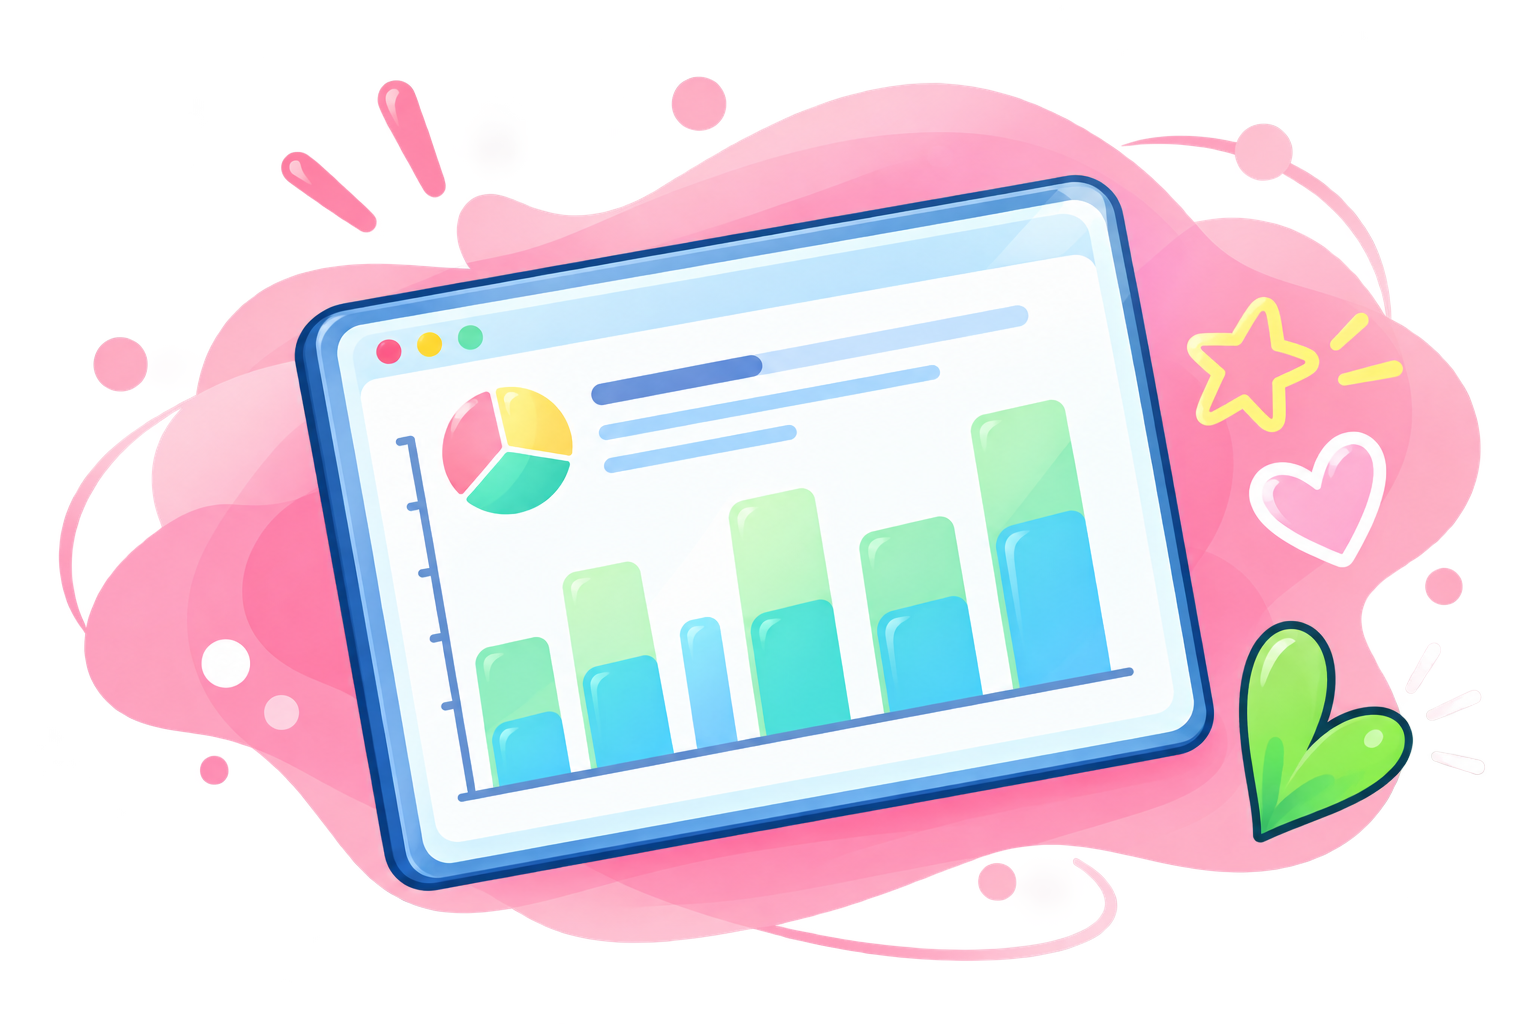
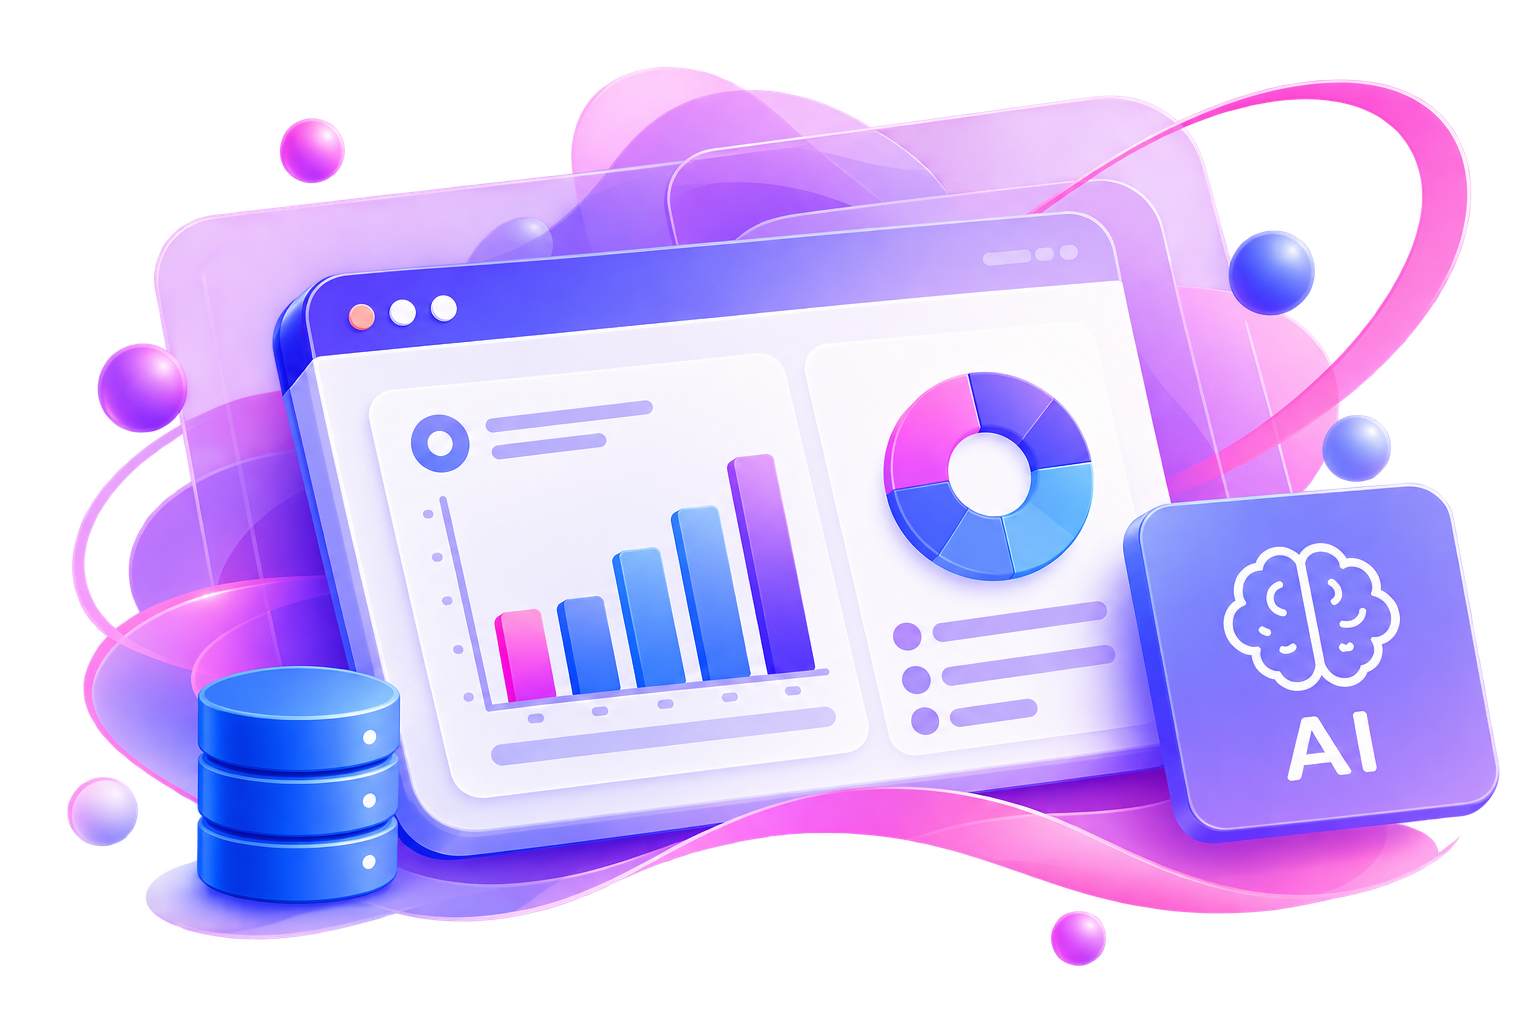
Update LP Design

diff --git a/frontend/src/components/lp/JobCard.vue b/frontend/src/components/lp/JobCard.vue
@@ -33,6 +33,9 @@ defineProps({
         <span class="our-work-card__curve"></span>
         <span class="our-work-card__dots"></span>
         <span class="our-work-card__dots our-work-card__dots--bottom"></span>
+        <span class="our-work-card__wave"></span>
+        <!-- 画像まわりの淡い光：左下 → 右上へごくゆっくり移動 -->
+        <span class="our-work-card__glow"></span>
       </span>
 
       <div class="our-work-card__image">
@@ -44,8 +47,11 @@ defineProps({
       </div>
 
       <div class="our-work-card__content">
+        <!-- タイトル上の短いライン（中を淡い光が左 → 右へ流れる） -->
+        <span class="our-work-card__accent" aria-hidden="true"></span>
         <h3 class="our-work-card__title">{{ job.title }}</h3>
-        <p class="our-work-card__description">{{ job.description }}</p>
+        <!-- 説明文の \n は「幅が足りないときだけ改行する位置」 -->
+        <p class="our-work-card__description"><template v-for="(part, i) in job.description.split('\n')" :key="i"><wbr v-if="i > 0" />{{ part }}</template></p>
         <ul class="our-work-card__tags" aria-label="使用するスキル">
           <li v-for="tag in job.tags" :key="tag" class="our-work-card__tag">{{ tag }}</li>
         </ul>
@@ -55,40 +61,47 @@ defineProps({
 </template>
 
 <style scoped>
-/* ================= テーマカラー（Yellow / Mint / Pink） ================= */
+/* ================= テーマカラー（Web：イエロー/オレンジ / モバイル：ブルー/シアン/ミント / データ・AI：ピンク/ラベンダー） ================= */
+/* 色の指定は lpContent.js の accent（yellow / green / pink）のまま */
 .our-work-card--yellow {
   --ow-bg:
-    radial-gradient(circle at 20% 15%, rgba(255, 218, 95, 0.18), transparent 35%),
-    linear-gradient(145deg, rgba(255, 255, 255, 0.98), rgba(255, 248, 220, 0.88));
-  --ow-deco: #ffc94d;     /* 装飾の色 */
-  --ow-tag-bg: #ffedb8;   /* タグの背景 */
-  --ow-border: rgba(255, 214, 120, 0.3);
+    radial-gradient(circle at 18% 12%, rgba(255, 210, 120, 0.22), transparent 40%),
+    linear-gradient(160deg, rgba(255, 249, 232, 0.98), rgba(255, 253, 248, 0.96) 55%, rgba(255, 240, 214, 0.9));
+  --ow-deco: #ffc56b;     /* 装飾の色 */
+  --ow-accent: #ff9a4d;   /* タイトル上のライン */
+  --ow-tag-bg: #ffe9c7;   /* タグの背景 */
+  --ow-border: rgba(255, 190, 120, 0.4);
+  --ow-glow: rgba(255, 190, 110, 0.32);
 }
 .our-work-card--green {
   --ow-bg:
-    radial-gradient(circle at 80% 15%, rgba(100, 230, 190, 0.16), transparent 35%),
-    linear-gradient(145deg, rgba(255, 255, 255, 0.98), rgba(226, 250, 240, 0.9));
-  --ow-deco: #5fd6a6;
-  --ow-tag-bg: #d2f3e2;
-  --ow-border: rgba(110, 220, 175, 0.3);
+    radial-gradient(circle at 82% 12%, rgba(120, 210, 245, 0.2), transparent 40%),
+    linear-gradient(160deg, rgba(234, 247, 255, 0.98), rgba(250, 253, 255, 0.96) 55%, rgba(222, 246, 240, 0.9));
+  --ow-deco: #6cc7ec;
+  --ow-accent: #3f9bf0;
+  --ow-tag-bg: #d8efff;
+  --ow-border: rgba(120, 190, 240, 0.42);
+  --ow-glow: rgba(110, 200, 240, 0.3);
 }
 .our-work-card--pink {
   --ow-bg:
-    radial-gradient(circle at 80% 15%, rgba(255, 160, 190, 0.17), transparent 35%),
-    linear-gradient(145deg, rgba(255, 255, 255, 0.98), rgba(255, 232, 239, 0.9));
-  --ow-deco: #ff9dbb;
-  --ow-tag-bg: #ffdce7;
-  --ow-border: rgba(255, 170, 195, 0.3);
+    radial-gradient(circle at 18% 12%, rgba(215, 170, 255, 0.22), transparent 40%),
+    linear-gradient(160deg, rgba(246, 236, 255, 0.98), rgba(253, 250, 255, 0.96) 55%, rgba(255, 232, 244, 0.9));
+  --ow-deco: #d9a5f0;
+  --ow-accent: #ee6fb0;
+  --ow-tag-bg: #f7dcf2;
+  --ow-border: rgba(220, 165, 235, 0.42);
+  --ow-glow: rgba(230, 160, 230, 0.3);
 }
 
 /* ================= 浮遊（カード全体）＋ 影の呼吸 ================= */
 .our-work-card {
-  --float-y: 7px;
-  --radius: 30px;
+  --float-y: 4px;
+  --radius: 24px;
   position: relative;
   height: 100%;
   border-radius: var(--radius);
-  animation: our-work-card-float 7s ease-in-out calc(var(--i, 0) * 0.7s) infinite;
+  animation: our-work-card-float 6s ease-in-out calc(var(--i, 0) * 0.6s) infinite;
 }
 /* 浮いた時だけ少し広がる影（浮遊と同じ周期） */
 .our-work-card::before {
@@ -98,7 +111,7 @@ defineProps({
   border-radius: inherit;
   box-shadow: 0 26px 52px rgba(29, 47, 78, 0.09);
   opacity: 0;
-  animation: our-work-card-shadow 7s ease-in-out calc(var(--i, 0) * 0.7s) infinite;
+  animation: our-work-card-shadow 6s ease-in-out calc(var(--i, 0) * 0.6s) infinite;
   pointer-events: none;
 }
 @keyframes our-work-card-float {
@@ -121,12 +134,14 @@ defineProps({
   border: 1px solid var(--ow-border);
   border-radius: var(--radius);
   box-shadow:
-    0 16px 40px rgba(29, 47, 78, 0.07),
-    0 4px 12px rgba(29, 47, 78, 0.04),
+    0 18px 40px rgba(30, 55, 90, 0.08),
+    0 6px 16px rgba(30, 55, 90, 0.05),
+    0 18px 36px -16px var(--ow-glow),
     inset 0 1px 0 rgba(255, 255, 255, 0.9);
   transition:
-    transform 0.45s cubic-bezier(0.2, 0.8, 0.2, 1),
-    box-shadow 0.45s cubic-bezier(0.2, 0.8, 0.2, 1);
+    transform 0.5s cubic-bezier(0.2, 0.8, 0.2, 1),
+    box-shadow 0.5s cubic-bezier(0.2, 0.8, 0.2, 1),
+    border-color 0.5s ease;
 }
 
 /* ---------- 装飾（よく見ると存在する程度。文字・画像より後ろ） ---------- */
@@ -219,6 +234,31 @@ defineProps({
   rotate: -40deg;
 }
 
+/* 下の柔らかい波（右下） */
+.our-work-card__wave {
+  left: 30%;
+  right: -20%;
+  bottom: -60px;
+  height: 120px;
+  border-radius: 60% 40% 0 0 / 80% 70% 0 0;
+  background: linear-gradient(100deg, transparent, var(--ow-deco));
+  opacity: 0.16;
+  rotate: -6deg;
+}
+/* 画像まわりの淡い光：左下 → 右上へゆっくり移動 */
+.our-work-card__glow {
+  left: 0;
+  top: 0;
+  width: 70%;
+  height: 55%;
+  border-radius: 50%;
+  background: radial-gradient(closest-side, var(--ow-glow), transparent 70%);
+  animation: our-work-glow 12s ease-in-out calc(var(--i, 0) * -4s) infinite;
+}
+@keyframes our-work-glow {
+  0%, 100% { transform: translate3d(-6%, 22%, 0) scale(0.95); opacity: 0.7; }
+  50% { transform: translate3d(40%, -6%, 0) scale(1.05); opacity: 1; }
+}
 @keyframes our-work-blob {
   0%, 100% { scale: 1; translate: 0 0; }
   50% { scale: 1.03; translate: -4px -3px; }
@@ -241,8 +281,8 @@ defineProps({
 }
 .our-work-card__image-zoom {
   position: absolute;
-  inset: 20px 22px 6px;
-  transition: transform 0.45s cubic-bezier(0.2, 0.8, 0.2, 1);
+  inset: 14px 14px 2px;
+  transition: transform 0.5s cubic-bezier(0.2, 0.8, 0.2, 1);
 }
 .our-work-card__image-float {
   display: flex;
@@ -250,11 +290,11 @@ defineProps({
   justify-content: center;
   width: 100%;
   height: 100%;
-  animation: our-work-image-float 6s ease-in-out calc(var(--i, 0) * -2s) infinite;
+  animation: our-work-image-float 7.2s ease-in-out calc(var(--i, 0) * -2s - 1.5s) infinite;
 }
 @keyframes our-work-image-float {
-  0%, 100% { transform: translateY(0) scale(1); }
-  50% { transform: translateY(-5px) scale(1.008); }
+  0%, 100% { transform: translateY(0); }
+  50% { transform: translateY(-3px); }
 }
 
 /* ---------- 文字：タイトル → 説明 → タグ ---------- */
@@ -266,6 +306,29 @@ defineProps({
   flex: 1;
   padding: 20px 22px 28px;
 }
+/* タイトル上の短いライン：中を細い光が左 → 右へゆっくり流れる */
+.our-work-card__accent {
+  position: relative;
+  display: block;
+  width: 44px;
+  height: 4px;
+  margin-bottom: 12px;
+  border-radius: 999px;
+  background: linear-gradient(90deg, var(--ow-accent), color-mix(in srgb, var(--ow-accent) 55%, #ffffff));
+  overflow: hidden;
+}
+.our-work-card__accent::after {
+  content: '';
+  position: absolute;
+  inset: 0;
+  background: linear-gradient(90deg, transparent, rgba(255, 255, 255, 0.9), transparent);
+  transform: translateX(-120%);
+  animation: our-work-accent-sweep 3s ease-in-out calc(var(--i, 0) * 0.35s) infinite;
+}
+@keyframes our-work-accent-sweep {
+  0% { transform: translateX(-120%); }
+  45%, 100% { transform: translateX(120%); }
+}
 .our-work-card__title {
   color: var(--color-navy);
   font-size: clamp(1.3125rem, 1rem + 0.45vw, 1.75rem);
@@ -276,6 +339,8 @@ defineProps({
 .our-work-card__description {
   margin-top: 12px;
   color: var(--color-navy-soft);
+  word-break: keep-all; /* \n（<wbr>）の位置でだけ改行する */
+  overflow-wrap: anywhere;
   font-size: 0.9375rem;
   font-weight: 400;
   line-height: 1.85;
@@ -284,29 +349,35 @@ defineProps({
 .our-work-card__tags {
   display: flex;
   flex-wrap: wrap;
-  gap: 7px;
+  gap: 6px;
   margin-top: auto;
   padding-top: 22px;
 }
 .our-work-card__tag {
-  padding: 6px 12px;
-  border-radius: 12px;
+  padding: 6px 11px;
+  border-radius: 999px;
   background: var(--ow-tag-bg);
   color: #274b82;
   font-size: 0.8125rem;
   font-weight: 600;
   line-height: 1.4;
   box-shadow: inset 0 0 0 1px rgba(255, 255, 255, 0.7); /* 背景の装飾と重なっても形が分かるように */
+  transition: translate 0.3s ease;
 }
 
 /* ---------- PC（マウス操作）の hover ---------- */
 @media (hover: hover) and (pointer: fine) {
   .our-work-card:hover .our-work-card__surface {
-    transform: translateY(-10px);
+    transform: translateY(-5px);
+    border-color: color-mix(in srgb, var(--ow-accent) 45%, transparent);
     box-shadow:
-      0 26px 56px rgba(29, 47, 78, 0.11),
-      0 8px 18px rgba(29, 47, 78, 0.05),
+      0 24px 50px rgba(30, 55, 90, 0.11),
+      0 8px 18px rgba(30, 55, 90, 0.06),
+      0 22px 42px -14px var(--ow-glow),
       inset 0 1px 0 rgba(255, 255, 255, 0.9);
+  }
+  .our-work-card__tag:hover {
+    translate: 0 -1px;
   }
   .our-work-card:hover .our-work-card__image-zoom {
     transform: scale(1.02);
@@ -319,8 +390,8 @@ defineProps({
 /* ---------- SP：浮遊を弱く、装飾を減らす ---------- */
 @media (max-width: 767px) {
   .our-work-card {
-    --float-y: 3px;
-    --radius: 26px;
+    --float-y: 2px;
+    --radius: 22px;
   }
   .our-work-card__content {
     padding: 18px 22px 24px;
@@ -335,8 +406,15 @@ defineProps({
   .our-work-card,
   .our-work-card::before,
   .our-work-card__image-float,
-  .our-work-card__deco > * {
+  .our-work-card__deco > *,
+  .our-work-card__accent::after {
     animation: none;
+  }
+  .our-work-card__accent::after {
+    display: none;
+  }
+  .our-work-card__tag {
+    transition: none;
   }
   .our-work-card__surface,
   .our-work-card__image-zoom,

diff --git a/frontend/src/data/lpContent.js b/frontend/src/data/lpContent.js
@@ -129,7 +129,7 @@ export const lpContent = {
       title: 'Webアプリ開発',
       image: 'jobs/web-development.png',
       imageAlt: 'パソコン画面でWebアプリを開発しているイラスト',
-      description: '業務システムやWebサービスの画面・機能をつくります。チームで設計からリリースまで取り組みます。',
+      description: '業務システムやWebサービスの画面・\n機能をつくります。チームで設計から\nリリースまで取り組みます。',
       tags: ['HTML / CSS', 'JavaScript', 'Vue.js', 'PHP'],
       accent: 'yellow',
     },
@@ -137,7 +137,7 @@ export const lpContent = {
       title: 'モバイルアプリ開発',
       image: 'jobs/mobile-development.png',
       imageAlt: 'スマートフォンアプリの画面を設計しているイラスト',
-      description: 'iOS・Androidアプリを開発します。ユーザーが毎日使う身近なサービスに関われます。',
+      description: 'iOS・Androidアプリを開発します。\nユーザーが毎日使う身近なサービスに\n関われます。',
       tags: ['Flutter', 'Swift', 'Kotlin', 'Firebase'],
       accent: 'green',
     },
@@ -145,7 +145,7 @@ export const lpContent = {
       title: 'データ分析・AI開発',
       image: 'jobs/ai-data-development.png',
       imageAlt: 'グラフやAIのデータを分析しているイラスト',
-      description: 'データを集めて分析し、AIモデルを活用した仕組みづくりに挑戦します。',
+      description: 'データを集めて分析し、AIモデルを\n活用した仕組みづくりに挑戦します。',
       tags: ['Python', 'SQL', '機械学習', '生成AI'],
       accent: 'pink',
     },

diff --git a/frontend/src/components/lp/AppHeader.vue b/frontend/src/components/lp/AppHeader.vue
@@ -286,7 +286,7 @@ onBeforeUnmount(() => {
   display: block;
 }
 .site-header__logo-mark {
-  width: clamp(65px, 5.5vw, 84px); /* 従来 clamp(130px, 11vw, 168px) の 50% */
+  width: clamp(78px, 6.6vw, 100px); /* 以前 clamp(65px, 5.5vw, 84px) の約 1.2 倍 */
 }
 .site-header__end {
   justify-self: end;
@@ -995,7 +995,7 @@ onBeforeUnmount(() => {
 }
 @media (max-width: 600px) {
   .site-header__logo-mark {
-    width: 56px; /* 従来 112px の 50% */
+    width: 64px; /* 以前 56px の約 1.15 倍 */
   }
   .drawer {
     width: 100%;

diff --git a/frontend/src/components/lp/AppFooter.vue b/frontend/src/components/lp/AppFooter.vue
@@ -46,7 +46,12 @@ const { footer, site } = lpContent
   padding-block: 40px;
 }
 .site-footer__logo-mark {
-  width: 75px; /* 従来 150px の 50% */
+  width: 84px; /* SP：以前 75px の約 1.12 倍 */
+}
+@media (min-width: 768px) {
+  .site-footer__logo-mark {
+    width: 90px; /* PC：以前 75px の 1.2 倍 */
+  }
 }
 /* ロゴは小さくしても、リンク・SNS の位置が変わらないよう従来のロゴ幅（150px）の枠を確保（ロゴは左端） */
 @media (min-width: 768px) {
